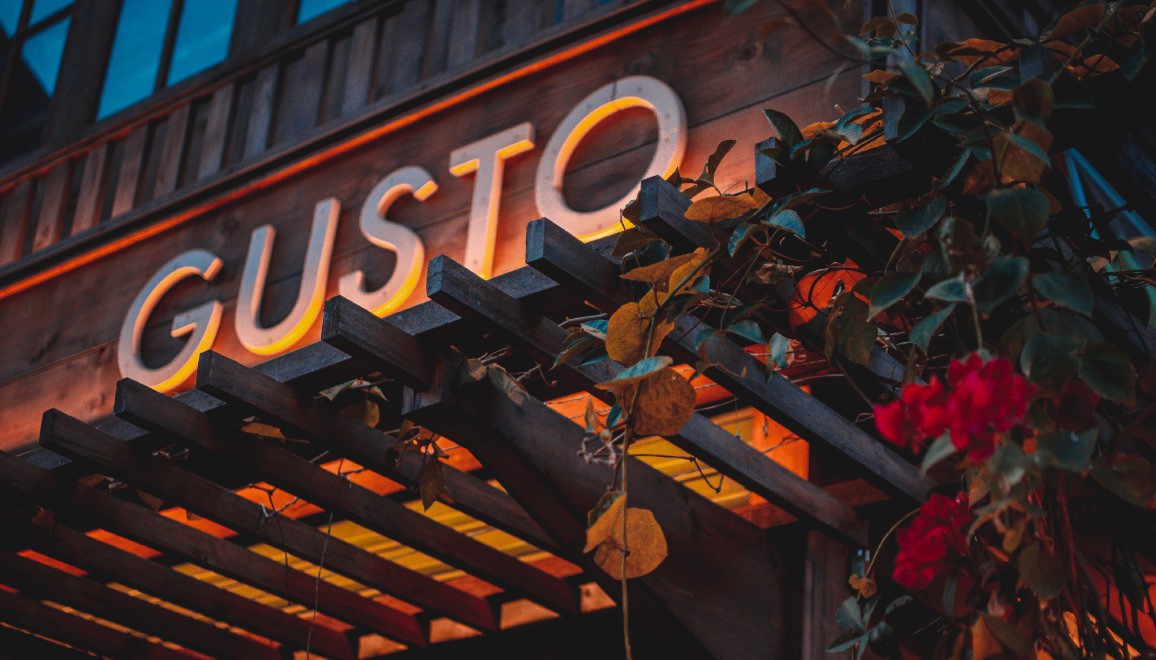
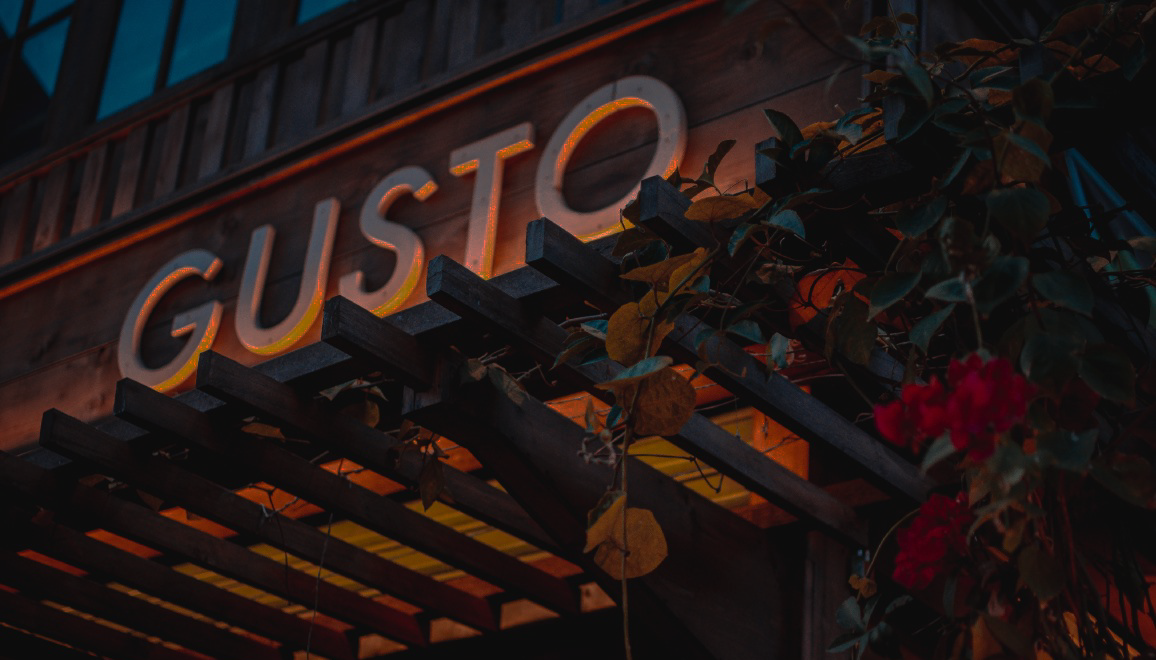
Updated background images of home page

diff --git a/src/Pages/Home/CustomerReview/CustomerReview.jsx b/src/Pages/Home/CustomerReview/CustomerReview.jsx
@@ -1,16 +1,14 @@
-import React, { useEffect } from 'react';
+import React from 'react';
 import './CustomerReview.css'
 
 const CustomerReview = () => {
 
     return (
-        <div className='text-center my-20 ms-10 me-10'>
-            <h2 className='text-3xl font-semibold'>Word from our customers</h2>
-            <p className='my-5'>Our food is enjoyed by people from all sectors</p>
+
             <div className="container">
                 <div className="board">
-                    <h2 className="text-light">Word form our customers</h2>
-                    <p className="text-light">Some of the fullfilled costomers reviews</p>
+                    <h2 className="text-2xl font-semibold text-light">Word form our customers</h2>
+                    <p className="mt-3 text-light">Some of the fullfilled costomers reviews</p>
 
 
                     <div className="carousel w-full">
@@ -95,53 +93,7 @@ const CustomerReview = () => {
                 </div>
             </div>
 
-        </div>
     );
 };
 
 export default CustomerReview;
-
-{/*<div class="swiper">
-                <!-- Additional required wrapper -->
-                <div class="swiper-wrapper">
-                <!-- Slides -->
-                <div class="swiper-slide">
-                    <div class="flex">
-                        <div class="comments">
-                            Lorem ipsum dolor sit amet, consectetur adipisicing elit.
-                            Non, placeat quisquam? Animi sunt, dignissimos est sit reiciendis iste ipsa error?
-                        </div>
-                        <div class="profile">
-                            <img src="https://images.unsplash.com/photo-1529626455594-4ff0802cfb7e?ixlib=rb-1.2.1&ixid=MnwxMjA3fDB8MHxwaG90by1wYWdlfHx8fGVufDB8fHx8&auto=format&fit=facearea&facepad=4&w=256&h=256&q=60" alt="">
-                            <a href="#">John V. Bellanmy</a>
-                            <span>Founder & CEO</span>
-                        </div>
-                    </div>
-                </div>
-                <div class="swiper-slide">
-                    <div class="flex">
-                        <div class="comments">
-                            Non, placeat quisquam? Animi sunt, dignissimos est sit reiciendis iste ipsa error?
-                            Lorem ipsum dolor sit amet, consectetur adipisicing elit.
-                         </div>
-                        <div class="profile">
-                            <img src="https://images.unsplash.com/photo-1494790108377-be9c29b29330?ixlib=rb-1.2.1&ixid=eyJhcHBfaWQiOjEyMDd9&auto=format&fit=facearea&facepad=4&w=256&h=256&q=60" alt="">
-                            <a href="#">John V. Bellanmy</a>
-                            <span>Founder & CEO</span>
-                        </div>
-                    </div>
-                </div>
-                <div class="swiper-slide">
-                    <div class="flex">
-                        <div class="comments">
-                            Animi sunt, ipsa error? Lorem ipsum dolor sit amet, consectetur adipisicing elit.
-                            Non, placeat quisquam? dignissimos est sit reiciendis iste 
-                        </div>
-                        <div class="profile">
-                            <img src="https://images.unsplash.com/photo-1503185912284-5271ff81b9a8?ixlib=rb-1.2.1&ixid=MnwxMjA3fDB8MHxwaG90by1wYWdlfHx8fGVufDB8fHx8&auto=format&fit=facearea&facepad=4&w=256&h=256&q=60" alt="">
-                            <a href="#">John V. Bellanmy</a>
-                            <span>Founder & CEO</span>
-                        </div>
-                    </div>
-                </div>
-                </div> */}

diff --git a/src/Pages/Home/Banner/Banner.jsx b/src/Pages/Home/Banner/Banner.jsx
@@ -2,15 +2,20 @@ import React from 'react';
 
 const Banner = () => {
     return (
-        <div className=" w-full">
-                <div id="slide1" className="relative w-full">
-                    <img src="../../../public/assets/Gusto Banner.png" className="w-full" />
-                    <div className="text-white absolute flex justify-between transform -translate-y-1/2 left-5 right-5 top-1/2">
-                        <p>Lorem ipsum dolor sit amet consectetur adipisicing elit. Placeat impedit adipisci corrupti quo molestiae et at neque similique libero. Similique perferendis ad facere aliquam illum quam voluptatibus iste tempore illo error blanditiis expedita esse quaerat veniam eius suscipit earum, cum, at nisi molestias consectetur. Iure voluptatibus voluptates quo odio quibusdam.</p>
-                    </div>
+        <div className=" w-full border-b-8 border-x-8">
+            <div id="slide1" className="relative w-full">
+                <img src="../../../public/assets/Gusto Banner.png" className="w-full" />
+                <div className="text-white absolute flex justify-between transform -translate-y-1/2 left-5 right-5 top-1/2 flex-col items-center">
+                    <h2 className='lg:text-6xl text-3xl lg:mb-12 mb-5'>Taste the best of pakistani food</h2>
+                    <p className='lg:text-2xl text-md lg:mb-10 mb-3 md:w-5/6'>Lorem ipsum dolor sit amet consectetur adipisicing elit. Placeat impedit adipisci corrupti quo molestiae et at neque similique libero. Similique perferendis ad facere aliquam illum quam voluptatibus iste tempore illo error blanditiis expedita esse quaerat veniam eius suscipit earum, cum, at nisi molestias consectetur. Iure voluptatibus voluptates quo odio quibusdam.</p>
+                    <button className="bg-orange-400 hover:bg-orange-600 text-white font-bold md:text-xl md:w-1/3 py-2 px-4 rounded-full">
+                        Make Reservation
+                    </button>
                 </div>
             </div>
+        </div>
     );
 };
 
 export default Banner;
+

diff --git a/src/Pages/Home/ChefContainer/ChefContainer.jsx b/src/Pages/Home/ChefContainer/ChefContainer.jsx
@@ -4,8 +4,8 @@ import './ChefContainer.css'
 const ChefContainer = () => {
     return (
         <div className='text-center my-20 ms-10 me-10'>
-            <h2 className='text-3xl font-semibold'>Our Chefs</h2>
-            <p className='my-5'>Meet our most experienced chefs and explore what they can provide you</p>
+            <h2 className='text-3xl font-extrabold text-white'>Our Chefs</h2>
+            <p className='my-5 text-white stroke-black'>Meet our most experienced chefs and explore what they can provide you</p>
             <div className='chefs'>
             <div className="card card-compact w-96 bg-base-100 shadow-xl mx-auto">
                 <figure><img src="/images/stock/photo-1606107557195-0e29a4b5b4aa.jpg" alt="Shoes" /></figure>

diff --git a/src/Pages/Home/BestRecipe/BestRecipe.jsx b/src/Pages/Home/BestRecipe/BestRecipe.jsx
@@ -4,8 +4,8 @@ const BestRecipe = () => {
     return (
         <div>
             <div className='text-center my-20 ms-10 me-10'>
-            <h2 className='text-3xl font-semibold'>Best Platters</h2>
-            <p className='my-5'>Enjoy our best platters</p>
+            <h2 className='text-3xl font-semibold text-white'>Best Platters</h2>
+            <p className='my-5 text-white'>Enjoy our best platters</p>
             <div className='chefs'>
             <div className="card card-compact w-96 bg-base-100 shadow-xl mx-auto">
                 <figure><img src="/images/stock/photo-1606107557195-0e29a4b5b4aa.jpg" alt="Shoes" /></figure>

diff --git a/src/Pages/Home/Home/Home.jsx b/src/Pages/Home/Home/Home.jsx
@@ -7,7 +7,7 @@ import CustomerReview from '../CustomerReview/CustomerReview';
 
 const Home = () => {
     return (
-        <div classNameName=''>
+        <div className='home'>
             <Banner></Banner>
             <ChefContainer></ChefContainer>
             <BestRecipe></BestRecipe>
@@ -17,3 +17,8 @@ const Home = () => {
 };
 
 export default Home;
+// style={{backgroundImage: `url(../../../../public/assets/icons/Gusto Restaurant Front View.png)`,
+//         backgroundRepeat: 'no-repeat',
+//         backgroundAttachment: 'fixed',
+//         backgroundPosition: 'center',
+//         backgroundColor: 'rgba(255, 255, 255, 0.8)'}}

diff --git a/src/Pages/Home/Home/Home.css b/src/Pages/Home/Home/Home.css
@@ -1,0 +1,6 @@
+.home{
+    background-image:linear-gradient(rgba(13, 13, 14, 0.598), rgba(14, 14, 13, 0.7)), url('../../../../public/assets/icons/Gusto\ Restaurant\ Front\ View.png');
+    background-repeat: no-repeat;
+    background-attachment: fixed;
+    background-position: center;
+}

diff --git a/src/Pages/Home/CustomerReview/CustomerReview.css b/src/Pages/Home/CustomerReview/CustomerReview.css
@@ -15,7 +15,7 @@
 
 .container{
     margin: 0 auto;
-    height: 98vh;
+    height: 70vh;
     display: flex;
     flex-direction: column;
     justify-content: center;
